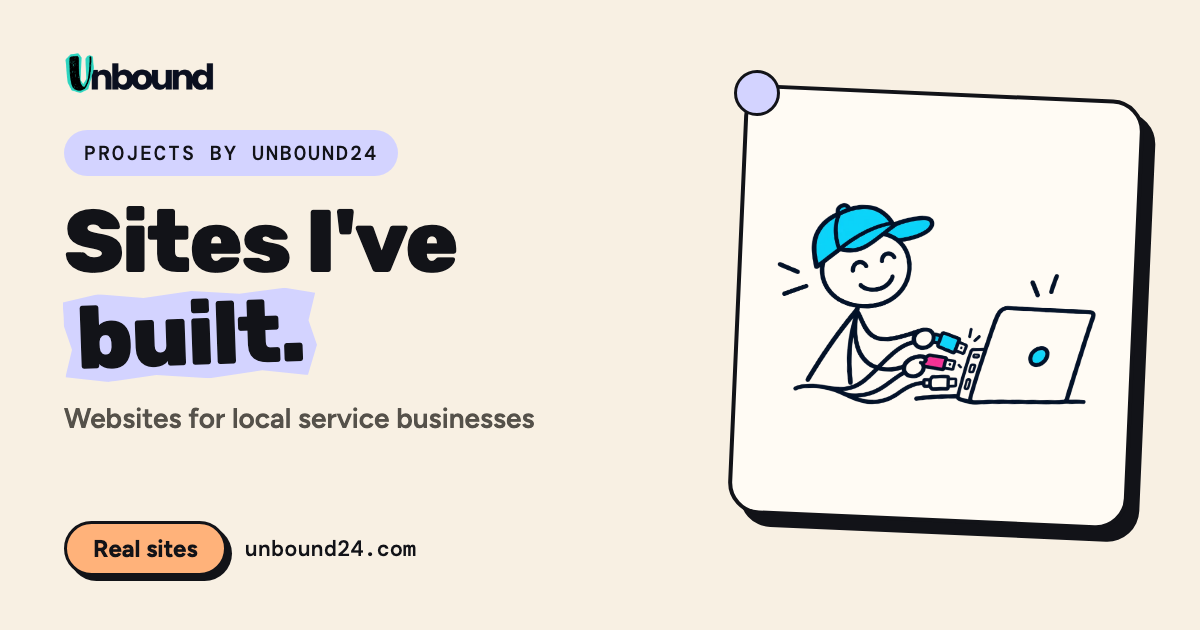
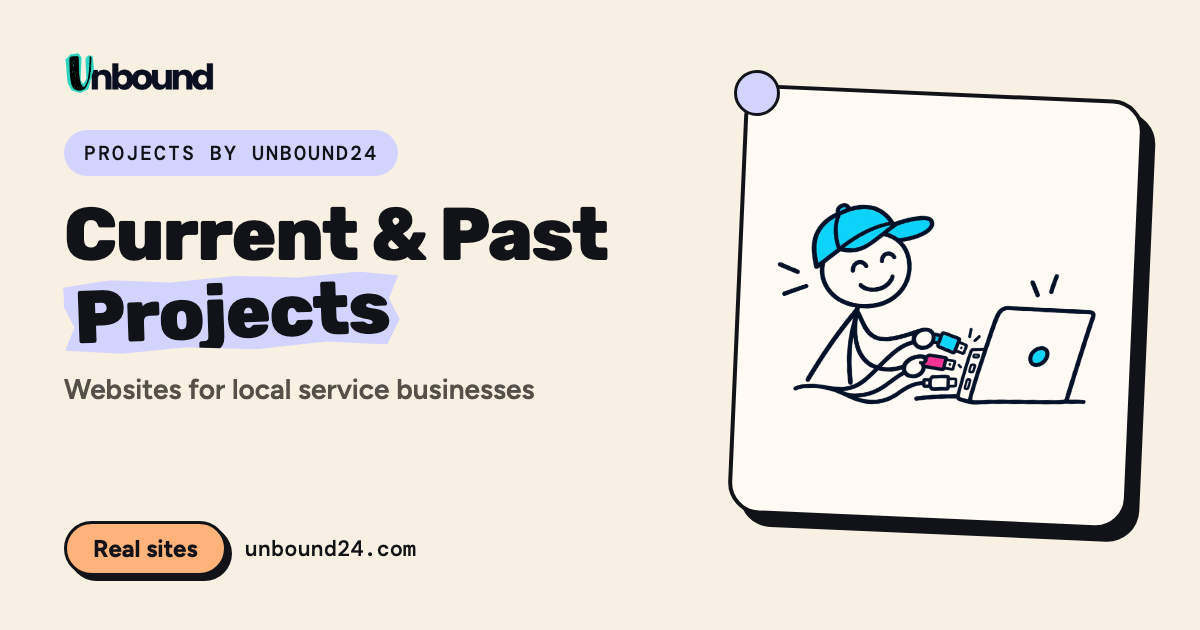
Projects: heading 'Current & Past Projects'; add Double Take Real Estate Photos (Brittany)

Changed region(s): [[0.0308, 0.3317, 0.5242, 0.6937]]

diff --git a/src/app/projects/page.tsx b/src/app/projects/page.tsx
@@ -1,6 +1,5 @@
 import type { Metadata } from "next";
 import { SiteFooter, SiteNav } from "@/components/site";
-import { Label } from "@/components/ui";
 import { SITES_BUILT } from "@/content/sites-built";
 
 // Projects (Brittany, 2026-11-23): a menu tab that shows her projects. Same sites and details as the
@@ -8,9 +7,9 @@ import { SITES_BUILT } from "@/content/sites-built";
 
 export const metadata: Metadata = {
   title: "Projects | Unbound24",
-  description: "Websites we've built for local service businesses: roofing, property management, software, sleep consulting and counselling.",
+  description: "Websites we've built for local service businesses: roofing, property management, software, sleep consulting, counselling and real estate photography.",
   alternates: { canonical: "/projects" },
-  openGraph: { url: "/projects", images: [{ url: "/og/projects.png?v=1", width: 1200, height: 630, alt: "Projects" }] },
+  openGraph: { url: "/projects", images: [{ url: "/og/projects.png?v=2", width: 1200, height: 630, alt: "Projects" }] },
 };
 
 export default function Projects() {
@@ -19,9 +18,9 @@ export default function Projects() {
       <SiteNav active="/projects" />
 
       <header className="max-w-[1200px] mx-auto px-4 pt-12 pb-10 sm:px-8 sm:pt-20 sm:pb-12 flex flex-col gap-6">
-        <Label fill="bg-lilac">Projects</Label>
+        {/* Heading "Current & Past Projects" (Brittany, 2026-11-23; was "Sites I've built."). */}
         <h1 className="font-display font-extrabold text-[44px] leading-[0.95] tracking-[-0.02em] sm:text-[72px] max-w-[16ch]">
-          Sites I&apos;ve <span className="torn bg-lilac">built.</span>
+          Current &amp; Past <span className="torn bg-lilac">Projects</span>
         </h1>
       </header>
 

diff --git a/src/content/sites-built.ts b/src/content/sites-built.ts
@@ -1,7 +1,7 @@
 // "Sites I've Built" pop-up on /websites (Brittany, 2026-11-17). Proof: Brittany OK'd showing all five sites
 // (2026-11-17), but never their customers' or owners' details: previews are cropped above any reviews.
 // Service / Vibe / Components are Claude's drafts from each live site, for Brittany to edit. No status pills
-// (Brittany, 2026-11-17). D2 added 2026-11-17.
+// (Brittany, 2026-11-17). D2 added 2026-11-17; Double Take 2026-11-23.
 // Previews: public/sites/<slug>.jpg (1280x530, top of the homepage).
 
 export type SiteBuilt = {
@@ -53,6 +53,15 @@ export const SITES_BUILT: SiteBuilt[] = [
     service: "Trauma-focused counselling and EMDR, online across Australia",
     vibe: "Calm, grounded, unhurried",
     components: ["2-minute reflection", "Online booking", "Services pages", "Questions page"],
+  },
+  {
+    // Added 2026-11-23 (Brittany). Links to the Vercel preview until doubletake.photos is live after handoff.
+    slug: "double-take",
+    name: "Double Take Real Estate Photos",
+    url: "https://double-take-five.vercel.app",
+    service: "Real estate photography, King and Snohomish County, Washington",
+    vibe: "Polished, bright, easygoing",
+    components: ["Online booking", "Before/after slider", "Portfolio galleries", "Pricing packages", "Video walkthroughs", "Reviews page"],
   },
   {
     slug: "unbound24",
